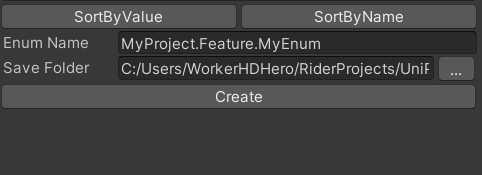
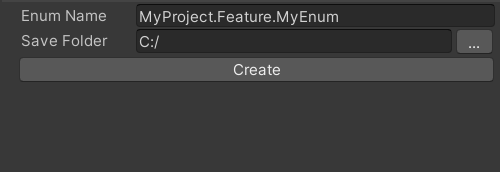
feat: appended issues to esg readme

diff --git a/Packages/com.hdhero.enum_source_generator/Editor/EnumConfigEditor.cs b/Packages/com.hdhero.enum_source_generator/Editor/EnumConfigEditor.cs
@@ -13,7 +13,7 @@ namespace HDH.ESG.Editor
         private const string EnumNamePropPath = "EnumName";
         private const string ConstantsPropertyPath = "Constants";
         private static readonly Regex s_enumFullNameRegex = new Regex("^(@?[a-z_A-Z]\\w+(?:\\.@?[a-z_A-Z]\\w+)*)$");
-        private static readonly Regex s_constNameRegex = new Regex("^[a-zA-Z_@]?[a-zA-Z0-9_]*$");
+        private static readonly Regex s_constNameRegex = new Regex("^[a-zA-Z_@].[a-zA-Z0-9_]*$");
         private static readonly HashSet<string> _names = new HashSet<string>();
         private static readonly HashSet<int> _values = new HashSet<int>();
         private SerializedProperty _enumName;
@@ -26,12 +26,13 @@ namespace HDH.ESG.Editor
             _enumName = serializedObject.FindProperty(EnumNamePropPath);
             _folderPath = serializedObject.FindProperty(FolderPropertyPath);
             _constants = serializedObject.FindProperty(ConstantsPropertyPath);
+            _constants.isExpanded = true;
         }
 
         public override void OnInspectorGUI()
         {
             _isConfigValid = true;
-            EditorGUILayoutArrayDrawer.DrawArray(_constants, OnDrawItemBegin);
+            EditorGUILayoutArrayDrawer.DrawArray(_constants, ValidateProperty);
             _names.Clear();
             _values.Clear();
             if (_constants.isExpanded)
@@ -41,6 +42,11 @@ namespace HDH.ESG.Editor
                 DrawSortByValueButton();
                 DrawSortByNameButton();
                 EditorGUILayout.EndHorizontal();
+            }
+            else
+            {
+                for (int i = 0; i < _constants.arraySize; i++) 
+                    ValidateProperty(_constants.GetArrayElementAtIndex(i));
             }
             
             DrawEnumNameField();
@@ -150,7 +156,7 @@ namespace HDH.ESG.Editor
             }
         }
 
-        private void OnDrawItemBegin(SerializedProperty obj)
+        private void ValidateProperty(SerializedProperty obj)
         {
             bool isNameValid = IsNameValid(
                 obj.FindPropertyRelative("Name").stringValue,

diff --git a/Docs/EnumGen/README.md b/Docs/EnumGen/README.md
@@ -42,4 +42,16 @@ Open `(yourProjectPath)/Packages/manifest.json`, then add the package in the lis
 9. If all is good you can click `Create` or `Update` button and file with enum will be created
 
 Done! Your enum is generated, you can find the file in specified folder and use enum constants from scripts you need
+   ![](https://github.com/HDHeros/UniPacks/blob/main/Docs/EnumGen/esg_result.png)  
+
+### Possible issues
+1. Name validation error. An error occurs when Name field is empty or does not match C# naming rules  
+   
+   ![](https://github.com/HDHeros/UniPacks/blob/main/Docs/EnumGen/esg_name-validation.png)  
+2. Value validation warning. An warning occurs when specified value is not unique  
+   
+   ![](https://github.com/HDHeros/UniPacks/blob/main/Docs/EnumGen/esg_value-validation.png)  
+3. Type name or save path error.
+   
+   ![](https://github.com/HDHeros/UniPacks/blob/main/Docs/EnumGen/esg_name-path-validation.png)  
 
